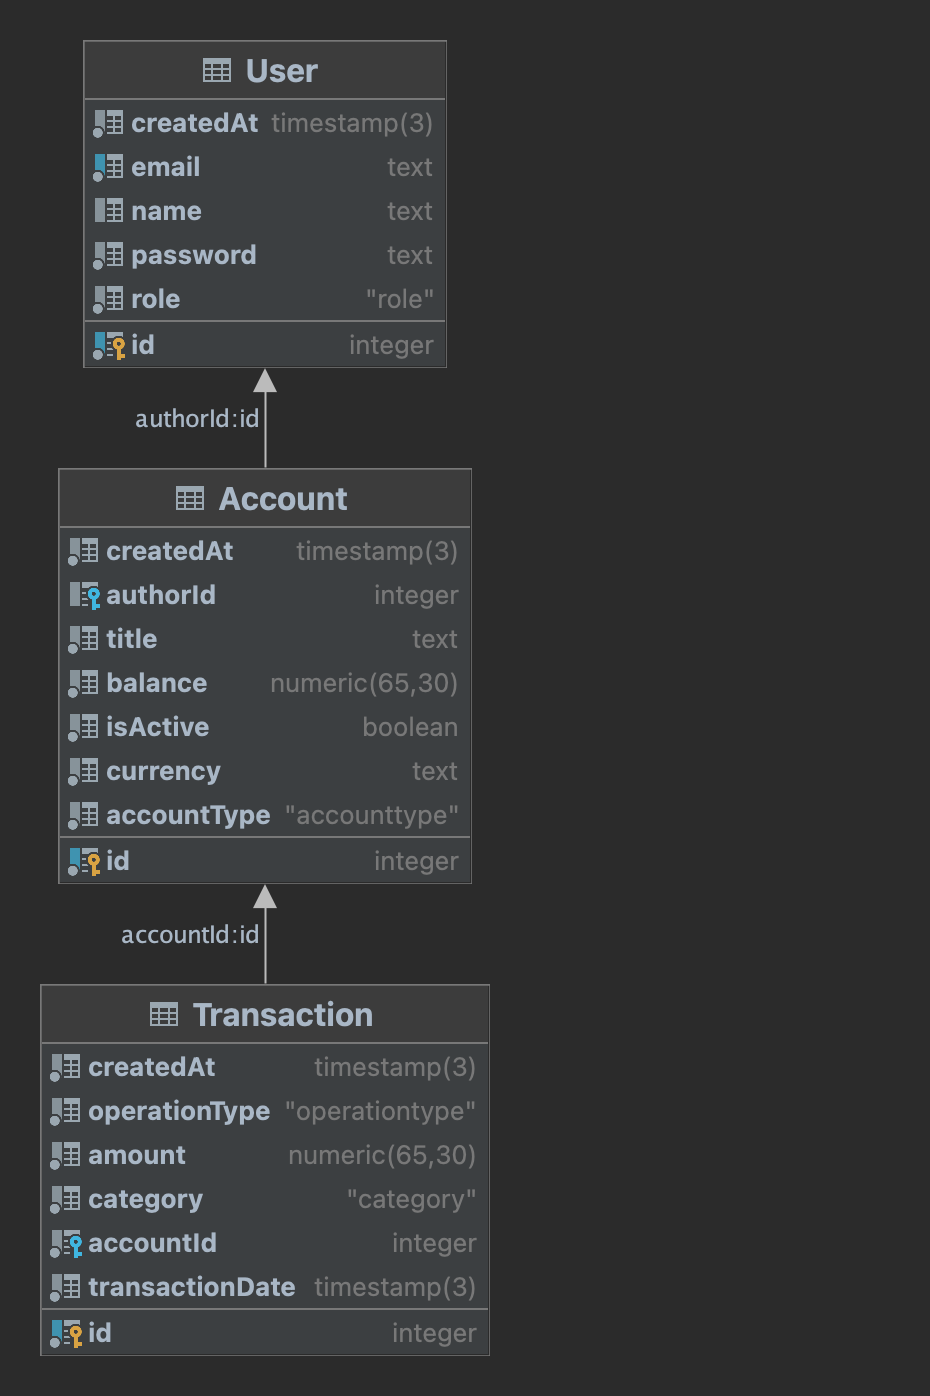
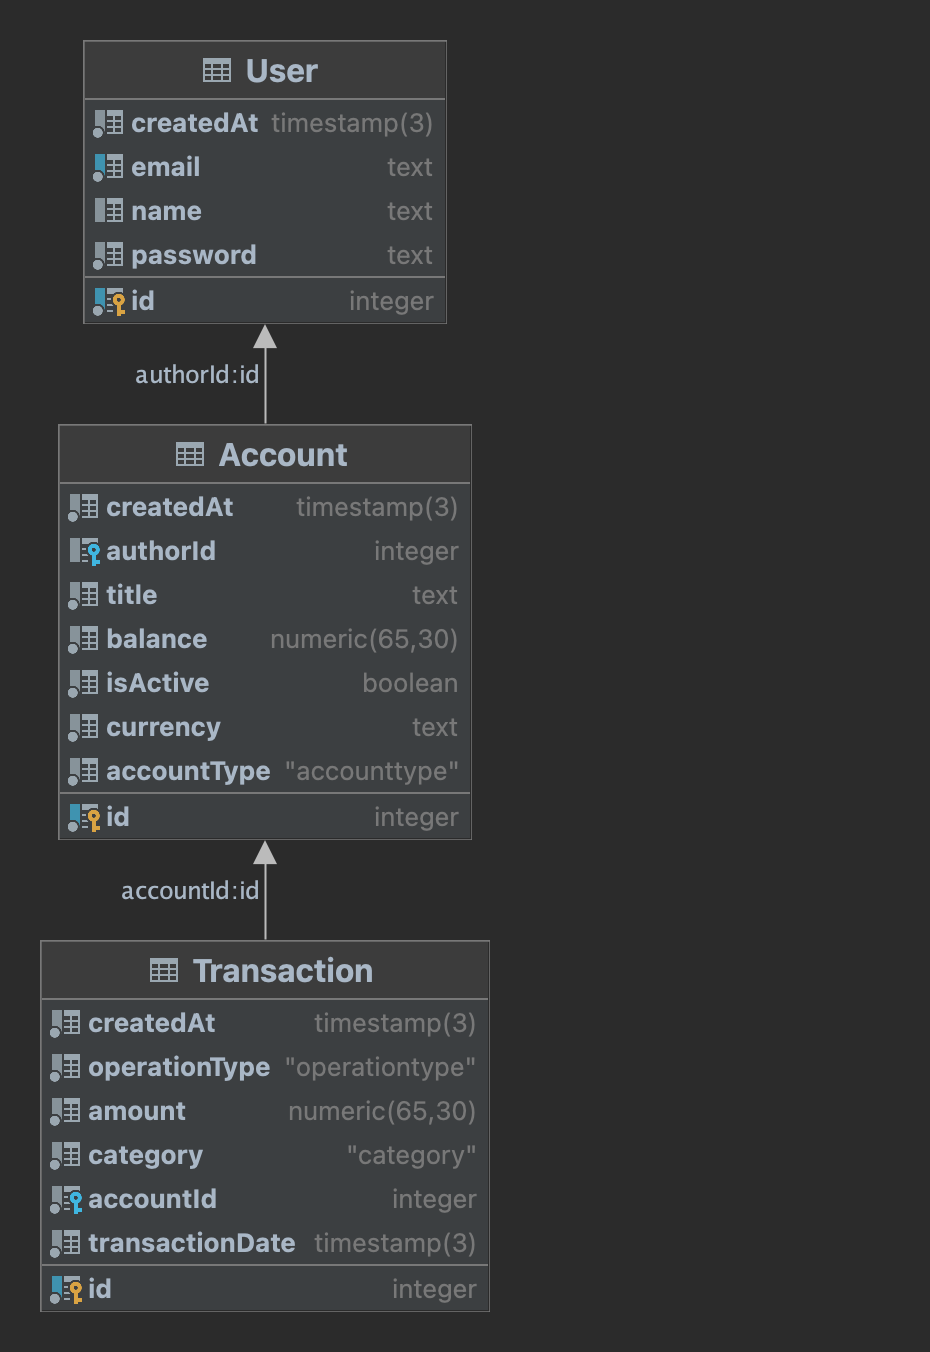
refactor: db fields

Changed region(s): [[0.0624, 0.0311, 0.4989, 0.6524], [0.0312, 0.6213, 0.5301, 0.963]]

diff --git a/src/prisma/prisma.service.ts b/src/prisma/prisma.service.ts
@@ -1,0 +1,15 @@
+import { INestApplication, Injectable, OnModuleInit } from '@nestjs/common';
+import { PrismaClient } from '@prisma/client';
+
+@Injectable()
+export class PrismaService extends PrismaClient implements OnModuleInit {
+  async onModuleInit() {
+    await this.$connect();
+  }
+
+  async enableShutdownHooks(app: INestApplication) {
+    this.$on('beforeExit', async () => {
+      await app.close();
+    });
+  }
+}

diff --git a/src/prisma/prisma.module.ts b/src/prisma/prisma.module.ts
@@ -1,0 +1,8 @@
+import { Module } from '@nestjs/common';
+import { PrismaService } from './prisma.service';
+
+@Module({
+  providers: [PrismaService],
+  exports: [PrismaService],
+})
+export class PrismaModule {}
